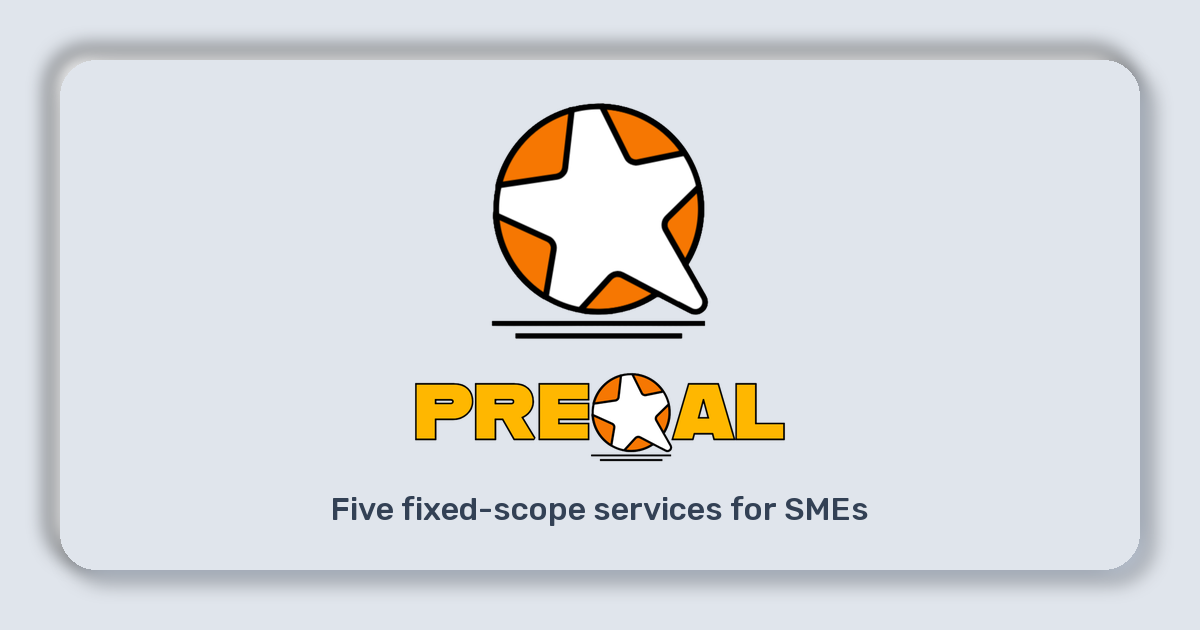
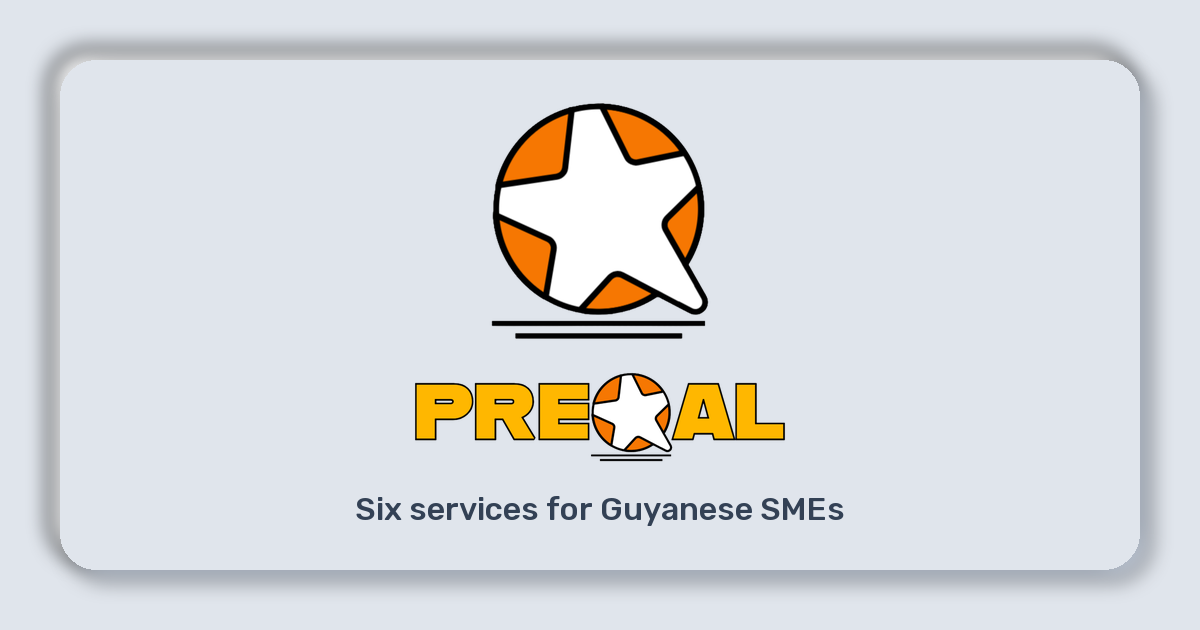
assets: the services share card says six

Changed region(s): [[0.2775, 0.7841, 0.74, 0.8444]]

diff --git a/scripts/generate-og-cards.py b/scripts/generate-og-cards.py
@@ -41,7 +41,7 @@ AMBER_600 = (0xD9, 0x77, 0x06)
 # fit the middle square (630px) so the compose-box thumbnail never clips it.
 CARDS = {
     "home": "ISO 9001 system setup for SMEs",
-    "services": "Five fixed-scope services for SMEs",
+    "services": "Six services for Guyanese SMEs",
     "resources": "Free quality management templates",
     "e-courses": "Build Systems That Actually Work",
     "e-courses-register": "Build Systems That Actually Work",
